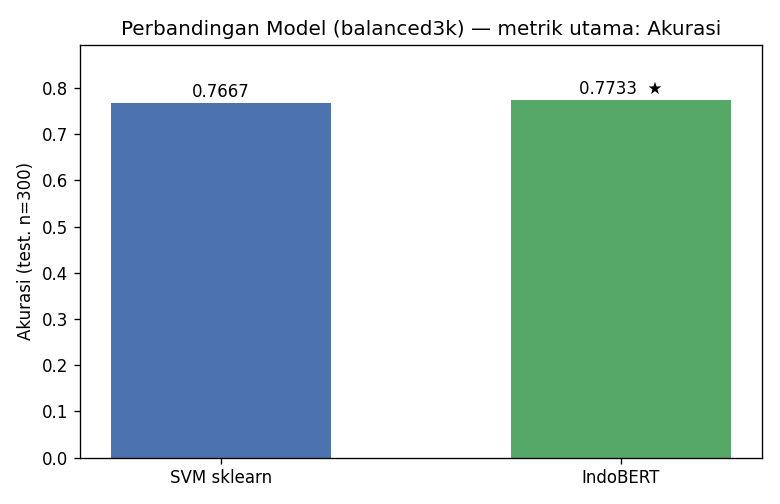
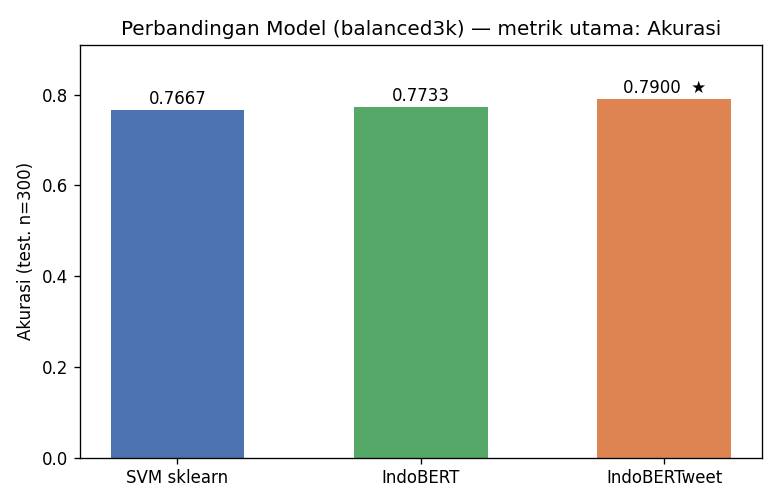
feat: IndoBERTweet balanced3k MENANG (acc 0.79) — tabel final 3 model
- IndoBERTweet + weighted loss = 0.79 (Netral F1 0.82), tembus plafon ~0.77
- Peringkat final: IndoBERTweet 0.79 > IndoBERT 0.773 > SVM(char+thr) 0.767
- compare_models: sertakan IndoBERTweet + palet warna dinamis
- handoff sec.11 + artefak indobertweet balanced3k

diff --git a/src/modeling/compare_models.py b/src/modeling/compare_models.py
@@ -33,6 +33,7 @@ def sources_for(tag: str):
         ("SVM sklearn", f"svm_{tag}_metrics.json"),
         ("SVM Spark MLlib", f"svm_spark{suffix}_metrics.json"),
         ("IndoBERT", f"indobert{suffix}_metrics.json"),
+        ("IndoBERTweet", f"indobertweet{suffix}_metrics.json"),
     )
 
 
@@ -90,7 +91,8 @@ def main() -> None:
 
     # --- chart AKURASI (metrik utama) ---
     best_i = int(df["accuracy"].idxmax())
-    colors = ["#4C72B0", "#55A868", "#DD8452"]
+    palette = ["#4C72B0", "#55A868", "#DD8452", "#C44E52", "#8172B3"]
+    colors = [palette[i % len(palette)] for i in range(len(df))]
     fig, ax = plt.subplots(figsize=(6.5, 4.2))
     bars = ax.bar(df["model"], df["accuracy"], color=colors, width=0.55)
     ax.set_ylim(0, min(1.0, df["accuracy"].max() + 0.12))

diff --git a/handoff.md b/handoff.md
@@ -289,11 +289,25 @@ label valid, apa pun filosofi labelnya.
 - `compare_models` kini **skip model yg file metriknya tak ada** (Spark dilewati). Output
   `model_comparison_balanced3k.{csv,png}` = 2 model.
 
-**MENUNGGU USER (Colab) — Track C IndoBERTweet:** `notebooks/3_modeling/indobertweet_balanced3k_colab.ipynb`
-(self-contained, baca flag `in_balanced3k`, cuma MONGO_URI). Model `indolem/indobertweet-base-uncased`
-+ weighted loss, 6 epoch. Target: > 0,7733. Kirim `indobertweet_balanced3k_metrics.json` → bandingkan
-& putuskan apakah gantikan IndoBERT di tabel final. Bisa juga set MODEL_NAME ke indobert-base utk ukur
-efek weighted-loss saja.
+**Track C IndoBERTweet — SELESAI & MENANG.** `indolem/indobertweet-base-uncased` + weighted loss
+(6 epoch) via `notebooks/3_modeling/indobertweet_balanced3k_colab.ipynb`. **acc 0,79** — TEMBUS
+plafon ~0,77. Kunci: Netral F1 **0,820** (model domain-medsos paham bahasa alay/medsos).
+
+**TABEL FINAL balanced3k (test 100/kelas, label domain-aware):**
+
+| Model | Akurasi | macro-F1 | F1 Neg | F1 Net | F1 Pos |
+|---|---|---|---|---|---|
+| SVM sklearn (char+thr) | 0,7667 | 0,765 | 0,761 | 0,742 | **0,793** |
+| IndoBERT | 0,7733 | 0,774 | 0,785 | 0,773 | 0,764 |
+| **IndoBERTweet** ★ | **0,7900** | 0,789 | **0,796** | **0,820** | 0,751 |
+
+→ `model_comparison_balanced3k.{csv,png}` (compare_models kini sertakan IndoBERTweet bila JSON-nya ada).
+Peringkat final: **IndoBERTweet > IndoBERT > SVM.** Naik bertahap; IndoBERTweet menang krn domain-fit
+(Twitter Indonesia) menolong kelas Netral/Negatif yang butuh nuansa medsos.
+
+**SISA (opsional):** update laporan PDF dgn tabel+chart 3 model; ensemble; tambah data latih.
+
+
 
 ## 9. Regen processed_svm + roadmap akurasi (2026-06-30, akhir sesi)
 